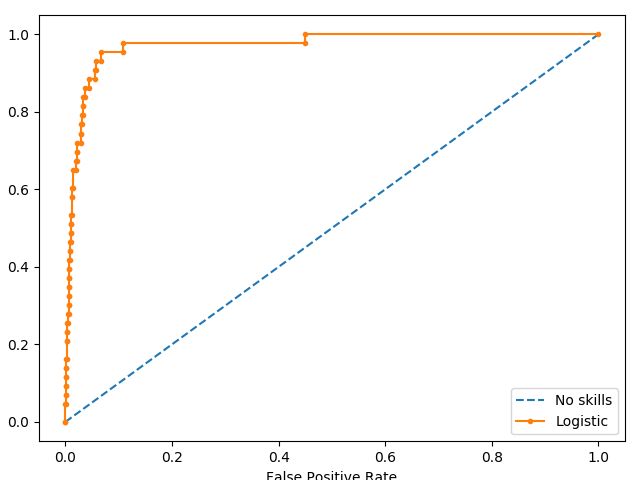
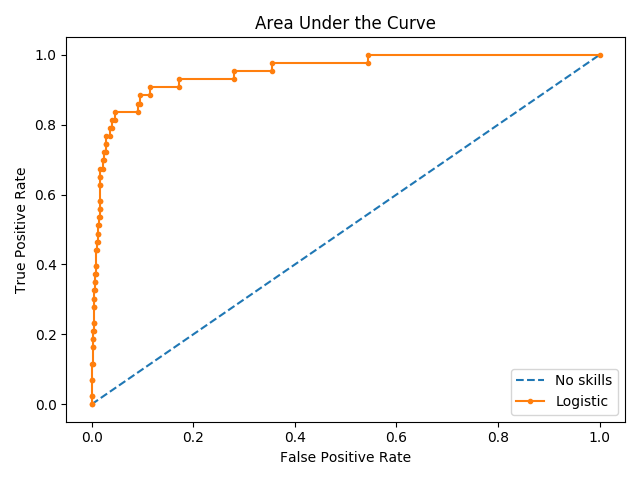
preparing the code to run the experiments

diff --git a/Gui.py b/Gui.py
@@ -4,8 +4,10 @@ from tkinter.ttk import *
 
 global threshold, balancing_type, solver, ngram_start, ngram_end
 from end_to_end import run_end_to_end
+#from PIL import ImageTk, Image
 
 global threshold, data_balancing_type, solver, ngram_start, ngram_end
+
 
 def run_gui():
 
@@ -19,21 +21,32 @@ def run_gui():
     create_solver_selection(window)
     create_ngram_selection(window)
 
-    #def clicked():
-
-       # run_end_to_end(float(threshold.get()), data_balancing_type.get(), solver.get(),
-       #                int(ngram_min.get()), int(ngram_max.get()))
-
     run_button = Button(window, text="Run Model", command=clicked)
     run_button.grid(column=1, row=6, padx=10, pady=10)
 
     window.mainloop()
 
 
-def clicked():
+def clicked(window):
 
     run_end_to_end(float(threshold.get()), data_balancing_type.get(), solver.get(),
-                       int(ngram_min.get()), int(ngram_max.get()))
+                   int(ngram_min.get()), int(ngram_max.get()))
+
+    # show_output_images(window)
+
+'''
+def show_output_images(window):
+    path = "plots/conf_matrix.jpg"
+
+    # Creates a Tkinter-compatible photo image, which can be used everywhere Tkinter expects an image object.
+    img = ImageTk.PhotoImage(Image.open(path))
+
+    # The Label widget is a standard Tkinter widget used to display a text or image on the screen.
+    panel = tk.Label(window, image=img)
+
+    # The Pack geometry manager packs widgets in rows or columns.
+    panel.pack(side="bottom", fill="both", expand="yes")
+'''
 
 
 def create_threshold_param(window):

diff --git a/Main.py b/Main.py
@@ -4,15 +4,17 @@ from end_to_end import run_end_to_end
 
 # variable to know if parameters are entered from Gui or manually
 parameters_set_manually = False
+sub_sample_neg_resut_file = 'experiment_results/sub_sample_neg_results.csv'
 
 if parameters_set_manually:
 
+
     threshold = 0.3
-    balancing_type = "over-sample positives"
-    solver ='lbfgs'
+    balancing_types = ['SMOTE', 'sub-sample negatives', 'over-sample positives']
+    solvers =['newton-cg', 'lbfgs', 'liblinear', 'sag', 'saga']
     ngram_min = 1
     ngram_max = 1
-    run_end_to_end(threshold, balancing_type, solver, 1, 2)
+    run_end_to_end(threshold, balancing_types[0], solvers[0], 1, 2)
 
 else:
     # enter parameters from Gui

diff --git a/evaluation/confusion_matrix.py b/evaluation/confusion_matrix.py
@@ -24,10 +24,11 @@ def plot_confusion_matrix(cnf_matrix):
     sns.heatmap(pd.DataFrame(cnf_matrix), annot=True, cmap="YlGnBu", fmt='g')
     ax.xaxis.set_label_position("top")
     cnf_plt.tight_layout()
-    cnf_plt.title('Confusion matrix', y=1.1)
+    cnf_plt.title('Confusion Matrix', y=1.1)
     cnf_plt.ylabel('Actual label')
     cnf_plt.xlabel('Predicted label')
     conf_matrix_fig = cnf_plt.gcf()
+    conf_matrix_fig.tight_layout()
     # cnf_plt.show()
     cnf_plt.draw()
     conf_matrix_fig.savefig('plots/conf_matrix_plt.png')

diff --git a/models/LogisticRegression.py b/models/LogisticRegression.py
@@ -93,9 +93,10 @@ def plot_one_side_importance(importance_dict, image_filedir):
     ax.set_yticks(range(len(importance_dict)))
     ax.set_yticklabels(list(importance_dict.keys()))
     ax.invert_yaxis()
-    ax.set_xlabel('words')
+    ax.set_xlabel('Importance')
     ax.set_title('Importance of words')
     word_importance_fig = word_plt.gcf()
+    word_importance_fig.tight_layout()
     # word_plt.show()
     word_plt.draw()
     word_importance_fig.savefig(image_filedir)

diff --git a/evaluation/auc.py b/evaluation/auc.py
@@ -30,10 +30,13 @@ def plot_AUC(test_OUTPUT, prediction_probs):
     # axis labels
     auc_plt.xlabel('False Positive Rate')
     auc_plt.ylabel('True Positive Rate')
+    auc_plt.title('Area Under the ROC Curve')
     # show the legend
     auc_plt.legend()
+    auc_plt.tight_layout()
     # show the plot
     auc_fig = auc_plt.gcf()
+    auc_fig.tight_layout()
     # auc_plt.show()
     auc_plt.draw()
     auc_fig.savefig('plots/auc_plt.png')

diff --git a/end_to_end.py b/end_to_end.py
@@ -87,3 +87,7 @@ def run_model_on_balanced_data(balancing_type, train, test, threshold, solver, n
                                                                                 solver=solver)
     return test_OUTPUT, predicted_OUTPUT, prediction_probs
 
+
+def append_results_file(filedir, threshold, solver, ngram_min, ngram_max):
+    with open(filedir, 'a') as fd:
+        fd.write()
